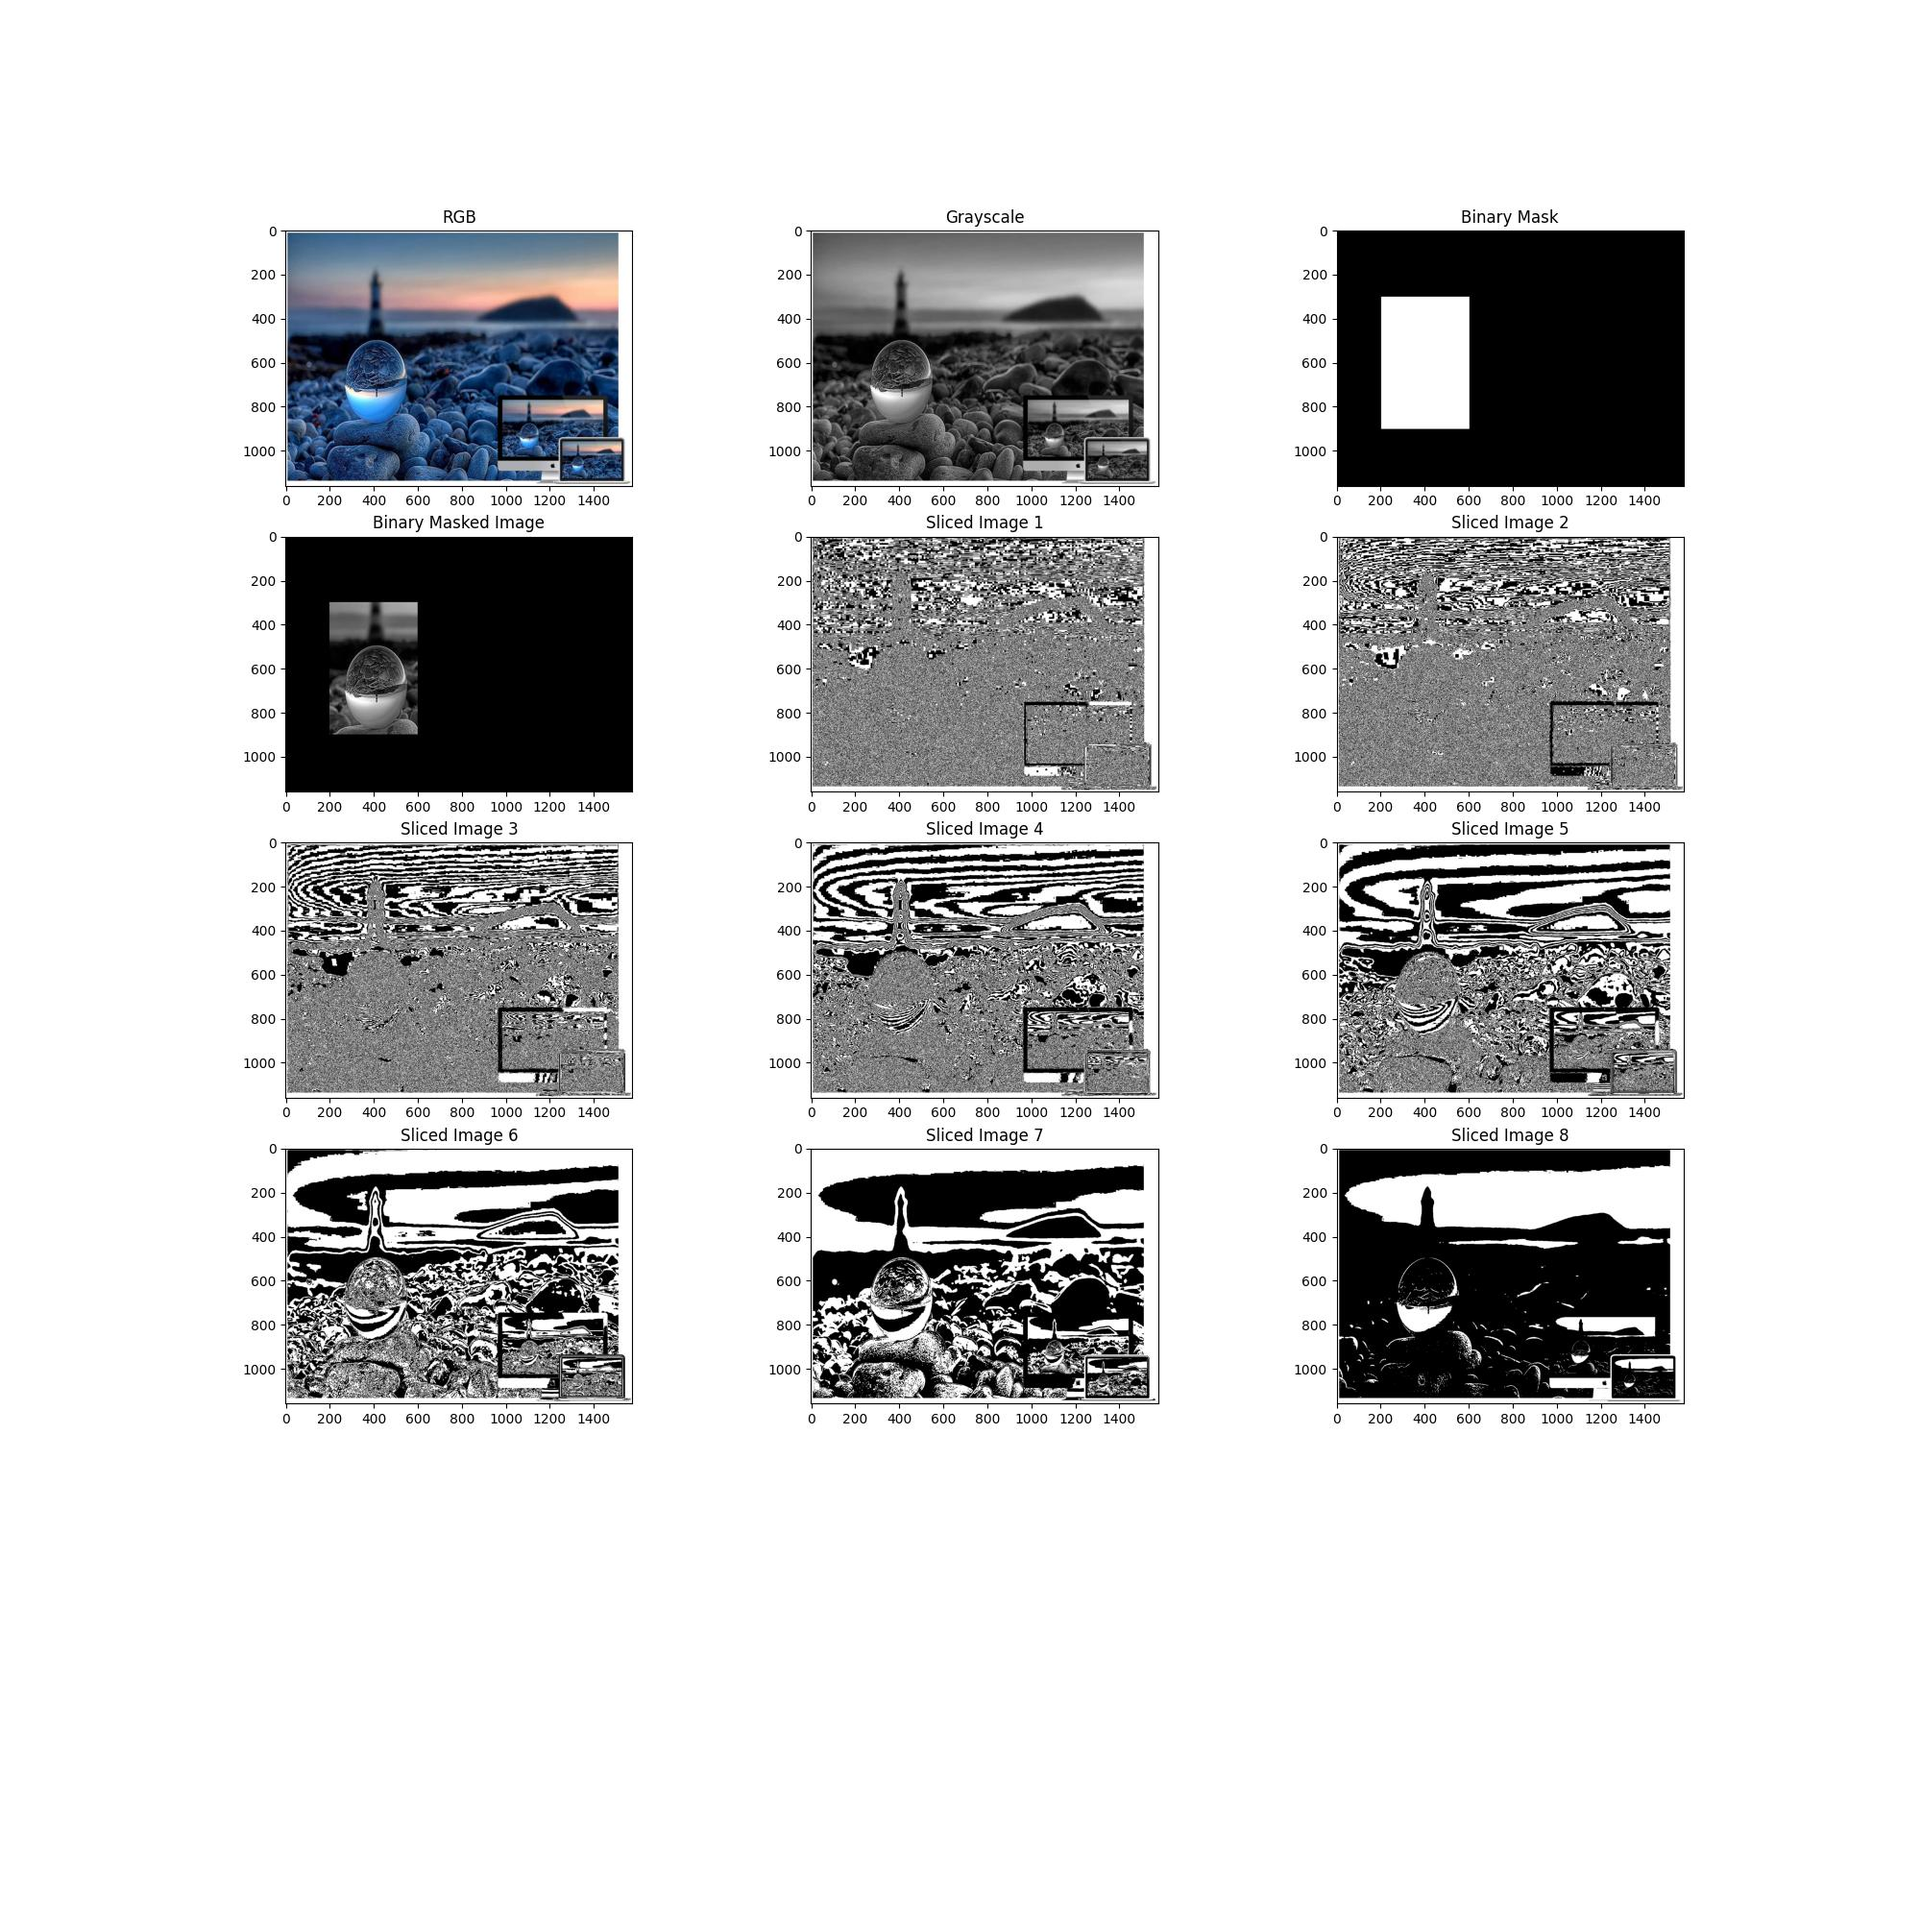
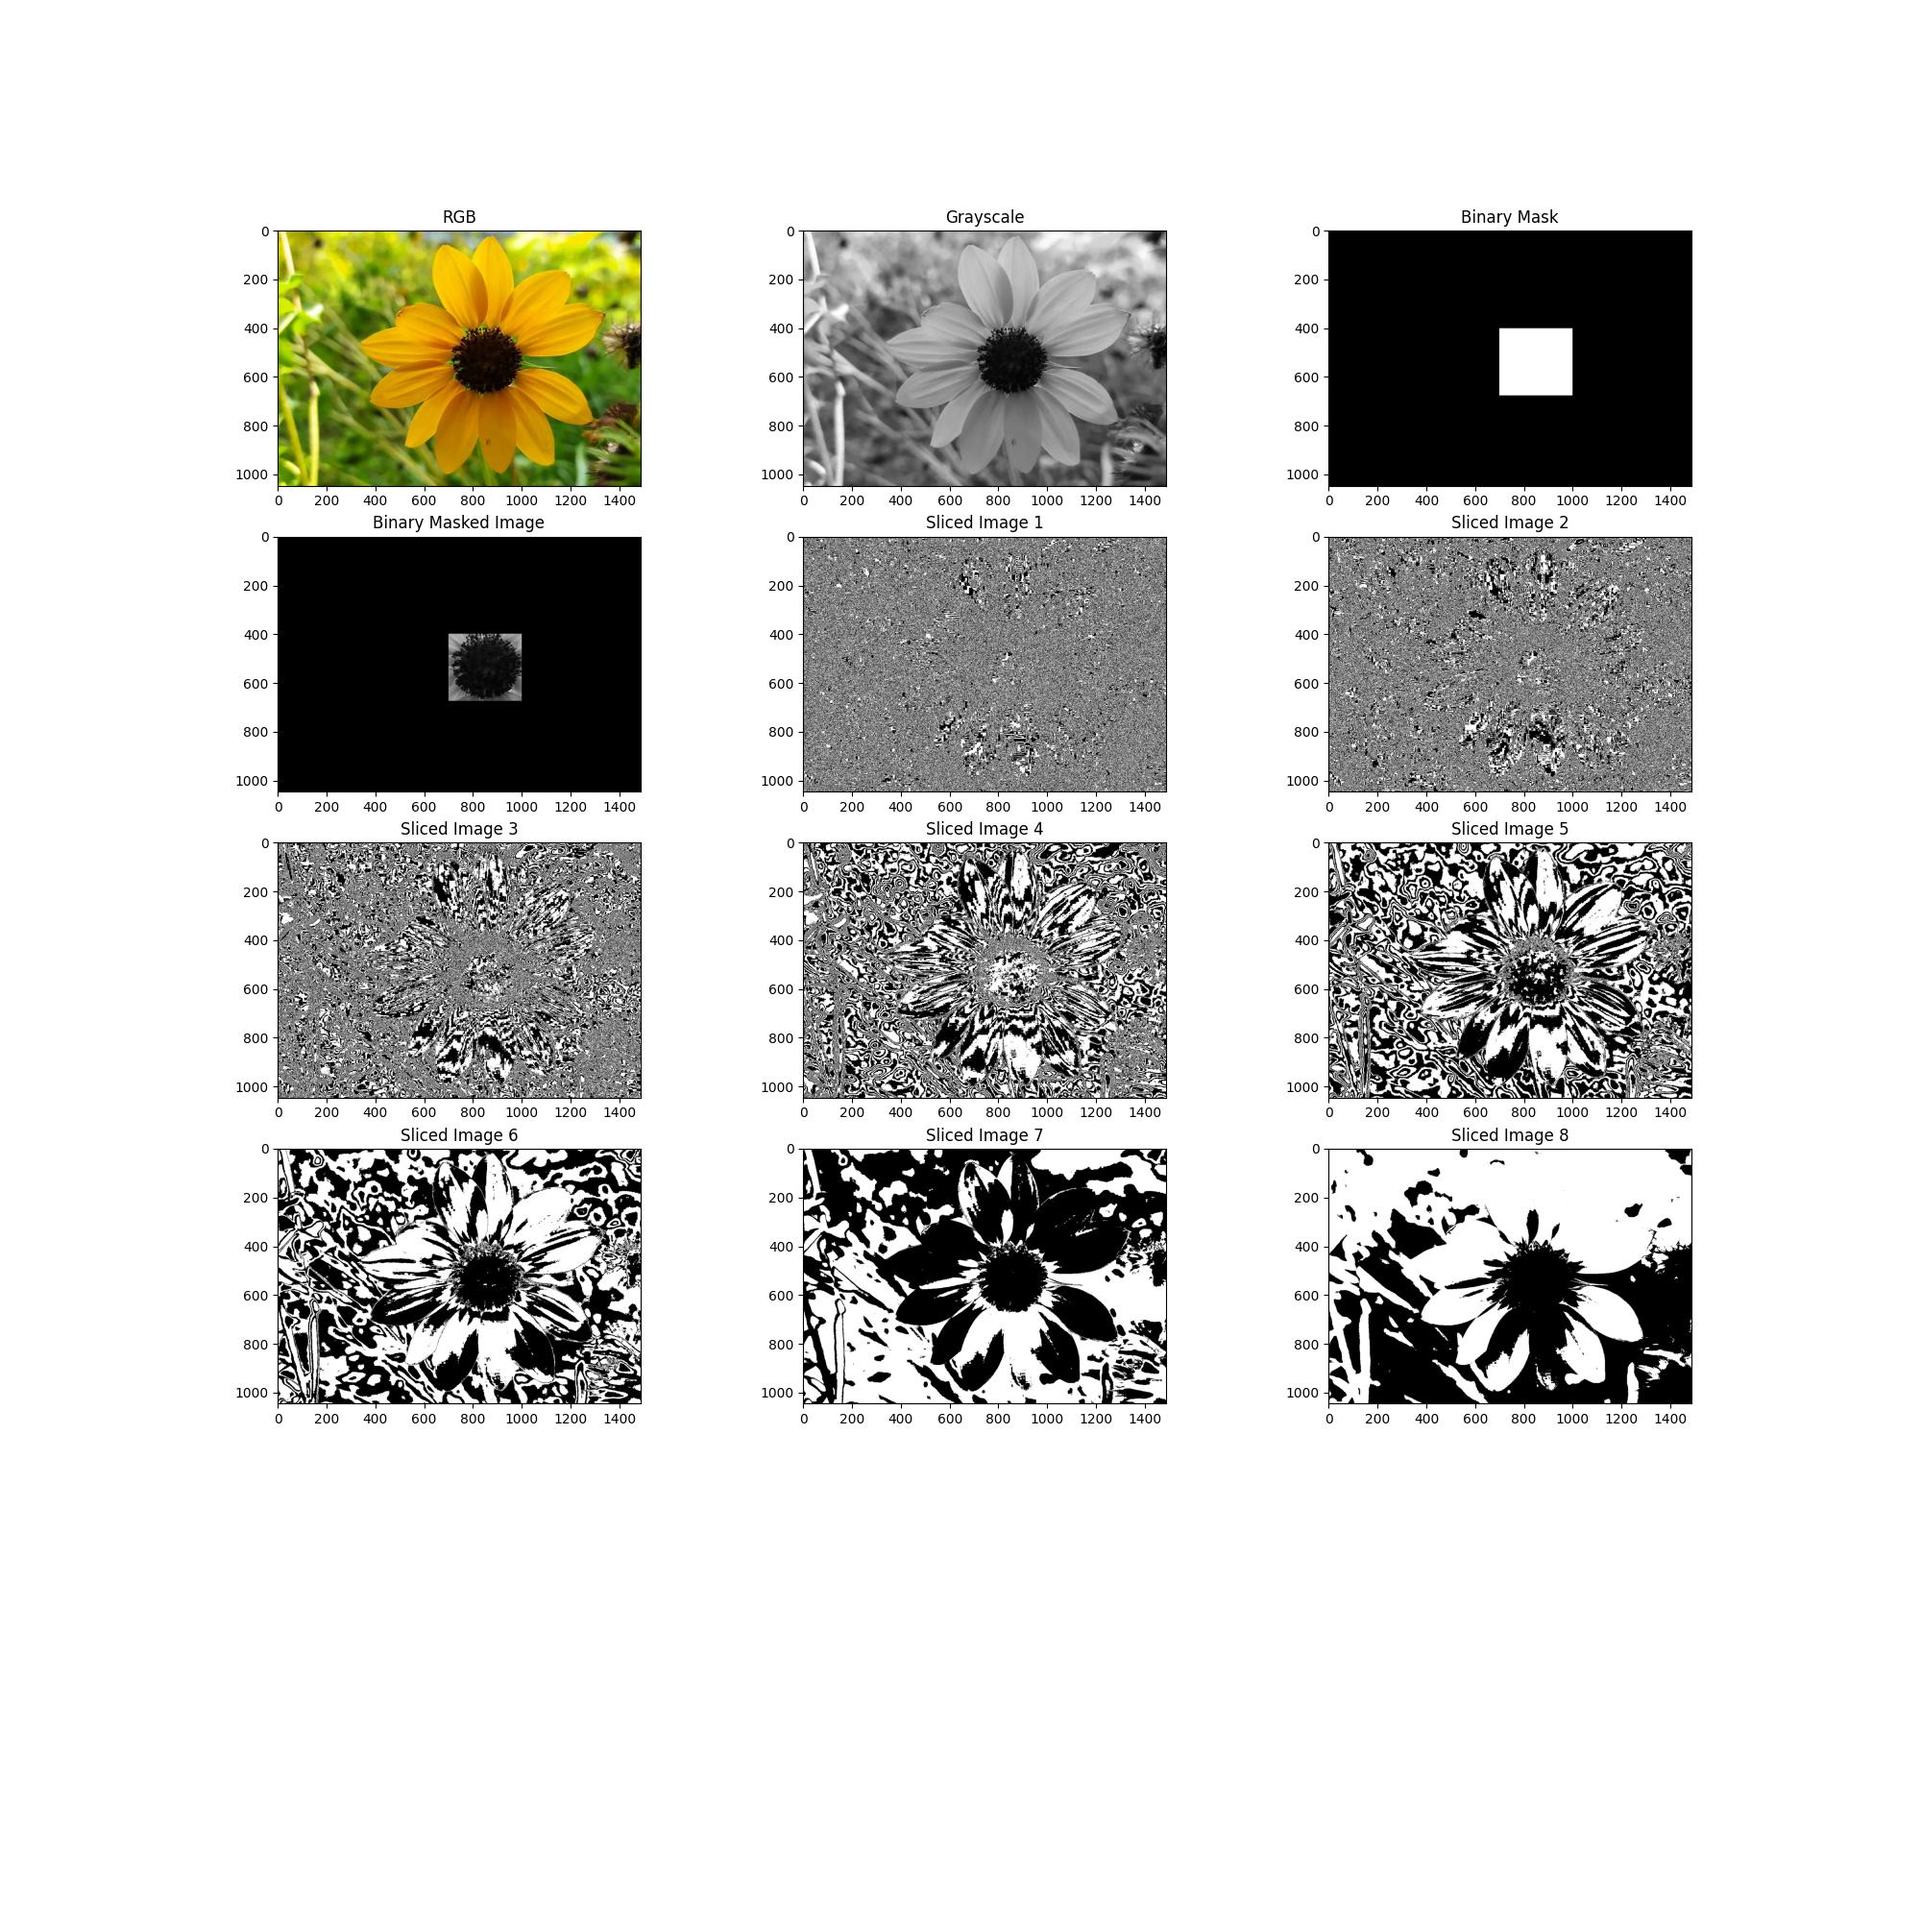
assignment 5 completed

diff --git a/assignment5/assignment.py b/assignment5/assignment.py
@@ -3,7 +3,7 @@ import cv2
 import numpy as np
 
 def main():
-    img_path = './image3.jpg'
+    img_path = './sunflower.jpg'
     image_rgb = plt.imread(img_path)
 
     w,h = image_rgb.shape[:2]
@@ -16,8 +16,8 @@ def main():
     image_grayscale = cv2.cvtColor(image_rgb, cv2.COLOR_RGB2GRAY)
     binary_mask = np.zeros((w,h), dtype = np.uint8)
     
-    for i in range(300,900):
-        for j in range(200,600):
+    for i in range(400,675):
+        for j in range(700,1000):
             binary_mask[i][j] = 255
 
     outputImage = cv2.bitwise_and(image_grayscale, image_grayscale, mask = binary_mask)
@@ -28,20 +28,26 @@ def main():
 
     #slice the bits of the grayscale image into 8 image
     #===========================================
-    sliced_1_shell = np.ones((w,h), dtype = np.uint8)
-    sliced_2_shell = np.ones((w,h), dtype = np.uint8)
-    sliced_3_shell = np.ones((w,h), dtype = np.uint8)
-    sliced_4_shell = np.ones((w,h), dtype = np.uint8)
-    sliced_5_shell = np.ones((w,h), dtype = np.uint8)
-    sliced_6_shell = np.ones((w,h), dtype = np.uint8)
-    sliced_7_shell = np.ones((w,h), dtype = np.uint8)
-    sliced_8_shell = np.ones((w,h), dtype = np.uint8)
+    # sliced_1_shell = np.ones((w,h), dtype = np.uint8)
+    # sliced_2_shell = np.ones((w,h), dtype = np.uint8)
+    # sliced_3_shell = np.ones((w,h), dtype = np.uint8)
+    # sliced_4_shell = np.ones((w,h), dtype = np.uint8)
+    # sliced_5_shell = np.ones((w,h), dtype = np.uint8)
+    # sliced_6_shell = np.ones((w,h), dtype = np.uint8)
+    # sliced_7_shell = np.ones((w,h), dtype = np.uint8)
+    # sliced_8_shell = np.ones((w,h), dtype = np.uint8)
 
-    slice_shells = [sliced_1_shell, sliced_2_shell, sliced_3_shell, sliced_4_shell, sliced_5_shell, sliced_6_shell, sliced_7_shell, sliced_8_shell]
-    bit_operators =[1,2,4,8,16,32,64,128]
+    # slice_shells = [sliced_1_shell, sliced_2_shell, sliced_3_shell, sliced_4_shell, sliced_5_shell, sliced_6_shell, sliced_7_shell, sliced_8_shell]
     
+    # take 8 empty shells
+    slice_shells = []
+    bit_operators =[1,2,4,8,16,32,64,128]
     for i in range(8):
-        slice_shells[i]= slice_shells[i] * bit_operators[i]
+        slice_shells.append(np.ones((w,h), dtype = np.uint8)* bit_operators[i])
+        
+    
+    # for i in range(8):
+    #     slice_shells[i]= slice_shells[i] * bit_operators[i]
 
     sliced_images = []
 
@@ -51,25 +57,40 @@ def main():
 
     
     images = images + sliced_images
-    titles = titles + ['Sliced Image 1', 'Sliced Image 2', 'Sliced Image 3', 'Sliced Image 4', 'Sliced Image 5', 'Sliced Image 6', 'Sliced Image 7', 'Sliced Image 8']
+    titles = titles + ['Sliced 1', 'Sliced 2', 'Sliced 3', 'Sliced 4', 'Sliced 5', 'Sliced 6', 'Sliced 7', 'Sliced 8']
     
+    # sobel and laplacian apply
+    #===========================================
+    laplacian = np.array([[-1, -1, -1],
+                        [-1, 8, -1],
+                        [-1, -1, -1]])
+    
+    sobel = np.array([[-1, 0, 1],
+                    [-2, 0, 2],
+                    [-1, 0, 1]])
+
+    sobel_applied_image = cv2.filter2D(image_grayscale, -1, sobel)
+    laplacian_applied_image = cv2.filter2D(image_grayscale, -1, laplacian)
+
+    images = images + [sobel_applied_image, laplacian_applied_image]
+    titles = titles + ['Sobel', 'Laplacian']
 
     plot_img(images, titles)
 
 def plot_img(image_set, title_set):
     n = len(image_set)
-    plt.figure(figsize = (20, 20))
     for i in range(n):
+        plt.figure(figsize = (15, 10))
         img = image_set[i]
         ch = len(img.shape)
 
-        plt.subplot( 5, 3, i + 1)
+        # plt.subplot( 5, 3, i + 1)
         if (ch == 3):
             plt.imshow(image_set[i])
         else:
             plt.imshow(image_set[i], cmap = 'gray')
         plt.title(title_set[i])
-    plt.savefig('./Output.jpg')
+        plt.savefig('./'+title_set[i]+'.jpg')
     # plt.show()
 
 

diff --git a/assignment10/harun.py b/assignment10/harun.py
@@ -5,7 +5,7 @@ import math
 
 
 def main():
-    rgb = cv2.imread('image1.jpg')
+    rgb = cv2.imread('a.jpeg')
 
     grayscale = rgb_to_grayscale(rgb)
     result = hist_equal(grayscale)
@@ -18,11 +18,11 @@ def main():
 
 def plot_img(img_set, title_set):
     n = len(img_set)
-    plt.figure(figsize=(20, 20))
 
     plot_number = 1
     for i in range(n):
-        plt.subplot(2, 2, plot_number)
+        # plt.subplot(2, 2, plot_number)
+        plt.figure(figsize=(10, 15))
         plt.title(title_set[i])
 
         ch = len(img_set[i].shape)
@@ -31,7 +31,8 @@ def plot_img(img_set, title_set):
         else:
             plt.imshow(img_set[i], cmap='gray')
 
-        plt.subplot(2, 2, plot_number + 1)
+        plt.savefig('./output_'+str(i) +'.png')
+        # plt.subplot(2, 2, plot_number + 1)
         plt.hist(img_set[i].ravel(), 256, [0, 256])
         plt.title(title_set[i] + ' Histogram')
         plt.xlabel('Intensity')
@@ -39,7 +40,6 @@ def plot_img(img_set, title_set):
 
         plot_number += 2
 
-    plt.show()
 
 
 def rgb_to_grayscale(rgb):

diff --git a/assignment5/sobel.py b/assignment5/sobel.py
@@ -4,7 +4,7 @@ from matplotlib import pyplot as plt
 
 # loading image
 #img0 = cv2.imread('SanFrancisco.jpg',)
-img0 = plt.imread('image3.jpg')
+img0 = plt.imread('sunflower.jpg')
 print(img0)
 
 # converting to gray scale
@@ -13,10 +13,12 @@ gray = cv2.cvtColor(img0, cv2.COLOR_RGB2GRAY)
 # remove noise
 img = cv2.GaussianBlur(gray,(3,3),0)
 
+
+
 # convolute with proper kernels
-laplacian = cv2.Laplacian(img,cv2.CV_64F)
-sobelx = cv2.Sobel(img,cv2.CV_64F,1,0,ksize=5)  # x
-sobely = cv2.Sobel(img,cv2.CV_64F,0,1,ksize=5)  # y
+laplacian = cv2.Laplacian(img,cv2.CV_32F)
+sobelx = cv2.Sobel(img,cv2.CV_32F,1,0,ksize=3)  # x
+sobely = cv2.Sobel(img,cv2.CV_32F,0,1,ksize=3)  # y
 
 plt.subplot(2,2,1),plt.imshow(img,cmap = 'gray')
 plt.title('Original'), plt.xticks([]), plt.yticks([])
